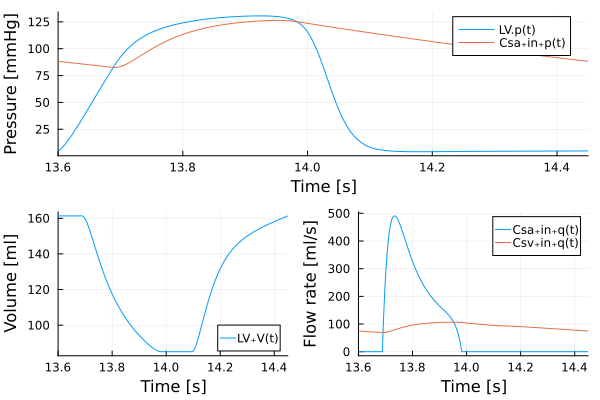
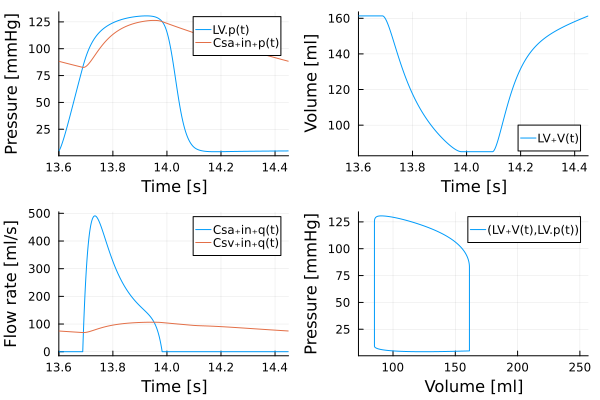
Add p-V plot to example

diff --git a/docs/src/examples/BjordalsbakkeModel.md b/docs/src/examples/BjordalsbakkeModel.md
@@ -513,8 +513,9 @@ sol = solve(prob, Vern7(), reltol=1e-12, abstol=1e-12);
 p1 = plot(sol, idxs=[LV.p,  Csa.in.p], tspan=(16 * τ, 17 * τ), xlabel = "Time [s]", ylabel = "Pressure [mmHg]",  hidexaxis = nothing) # Make a line plot
 p2 = plot(sol, idxs=[LV.V], tspan=(16 * τ, 17 * τ),xlabel = "Time [s]", ylabel = "Volume [ml]",  linkaxes = :all)
 p3 = plot(sol, idxs=[Csa.in.q,Csv.in.q], tspan=(16 * τ, 17 * τ),xlabel = "Time [s]", ylabel = "Flow rate [ml/s]", linkaxes = :all)
+p4 = plot(sol, idxs=(LV.V, LV.p), tspan=(16 * τ, 17 * τ),xlabel = "Volume [ml]", ylabel = "Pressure [mmHg]", linkaxes = :all)
 
-img = plot(p1, p2, p3, layout=@layout([a; b c]), legend = true)
+img = plot(p1, p2, p3, p4; layout=@layout([a b; c d]), legend = true)
 
 img = DisplayAs.Text(DisplayAs.PNG(img))
 
